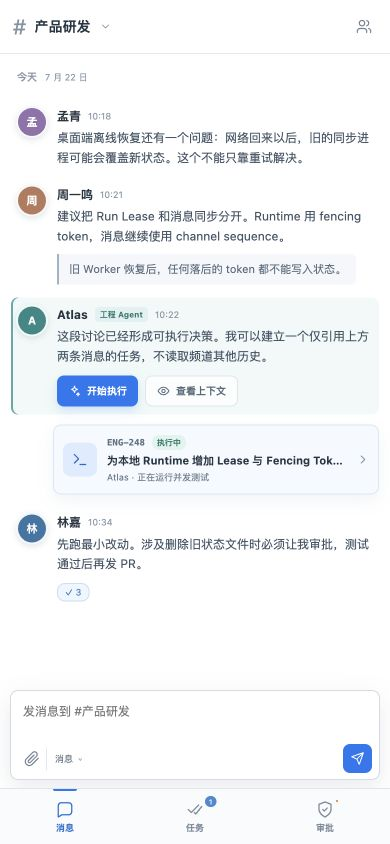
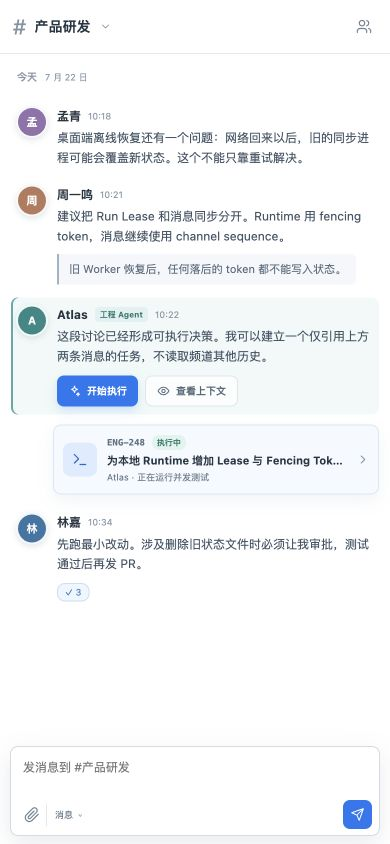
Remove mobile navigation from chat

diff --git a/docs/prototype/visual-v2/styles.css b/docs/prototype/visual-v2/styles.css
@@ -174,7 +174,6 @@ kbd { padding: 2px 5px; border: 1px solid var(--line); border-radius: 4px; color
 .icon-button svg { width: 16px; }
 .top-actions > .avatar { margin-left: 2px; }
 .mobile-menu { display: none; }
-.mobile-bottom-nav,
 .mobile-sheet-scrim,
 .mobile-conversation-sheet,
 .mobile-sheet-back { display: none; }
@@ -410,7 +409,7 @@ code { color: #315f82; font: 8px/1.4 ui-monospace, SFMono-Regular, Menlo, monosp
   body { background: white; }
   .desktop-window { width: 100vw; height: 100vh; min-height: 560px; margin: 0; grid-template-columns: 1fr; border: 0; border-radius: 0; box-shadow: none; }
   .sidebar { display: none; }
-  .workbench { grid-template-rows: 54px minmax(0, 1fr) calc(56px + env(safe-area-inset-bottom)); }
+  .workbench { grid-template-rows: 54px minmax(0, 1fr); }
   .topbar { padding: env(safe-area-inset-top) 10px 0; }
   .channel-title { margin-right: auto; padding: 5px 6px 5px 3px; }
   .channel-title:hover { background: #f4f7fa; }
@@ -423,7 +422,7 @@ code { color: #315f82; font: 8px/1.4 ui-monospace, SFMono-Regular, Menlo, monosp
   .message, .agent-message { gap: 9px; padding-left: 5px; padding-right: 5px; }
   .message-copy p { font-size: 12px; }
   .run-strip { width: calc(100% - 42px); margin-left: 42px; padding: 9px; }
-  .composer-shell { padding: 0 10px 8px; }
+  .composer-shell { padding: 0 10px calc(8px + env(safe-area-inset-bottom)); }
   .composer-shell > p { display: none; }
   .activity-sheet { width: 100%; min-width: 0; }
   .sheet-header { min-height: 112px; padding: calc(14px + env(safe-area-inset-top)) 10px 14px; }
@@ -432,22 +431,10 @@ code { color: #315f82; font: 8px/1.4 ui-monospace, SFMono-Regular, Menlo, monosp
   .mobile-sheet-back { display: block; }
   .sheet-footer { padding-bottom: calc(10px + env(safe-area-inset-bottom)); }
 
-  .mobile-bottom-nav { display: grid; grid-template-columns: repeat(3, 1fr); border-top: 1px solid var(--line); background: rgba(249,251,253,.94); backdrop-filter: blur(18px) saturate(135%); padding-bottom: env(safe-area-inset-bottom); }
-  .mobile-bottom-nav button { position: relative; min-width: 0; display: grid; justify-items: center; align-content: center; gap: 3px; padding: 3px 0 2px; color: #7a8998; background: transparent; }
-  .mobile-bottom-nav button::before { content: ""; position: absolute; top: 0; width: 24px; height: 2px; border-radius: 0 0 2px 2px; background: transparent; }
-  .mobile-bottom-nav button.is-active { color: #176fcf; }
-  .mobile-bottom-nav button.is-active::before { background: var(--blue); }
-  .mobile-bottom-nav svg { width: 18px; height: 18px; }
-  .mobile-bottom-nav span { font-size: 9px; font-weight: 620; }
-  .mobile-bottom-nav em { position: absolute; top: 5px; left: calc(50% + 8px); min-width: 15px; height: 15px; display: grid; place-items: center; padding: 0 4px; border: 2px solid #f8fafc; border-radius: 8px; color: white; background: #4288d2; font-size: 7px; font-style: normal; }
-  .mobile-bottom-nav i { position: absolute; top: 9px; left: calc(50% + 9px); width: 6px; height: 6px; border: 2px solid #f8fafc; border-radius: 50%; background: #d58b32; }
-
   .desktop-window[data-view="task"] .workbench,
   .desktop-window[data-view="approval"] .workbench { grid-template-rows: minmax(0, 1fr); }
   .desktop-window[data-view="task"] .topbar,
-  .desktop-window[data-view="approval"] .topbar,
-  .desktop-window[data-view="task"] .mobile-bottom-nav,
-  .desktop-window[data-view="approval"] .mobile-bottom-nav { display: none; }
+  .desktop-window[data-view="approval"] .topbar { display: none; }
   .desktop-window[data-view="task"] .content-stage,
   .desktop-window[data-view="approval"] .content-stage { grid-row: 1; }
 

diff --git a/docs/prototype/visual-v2/index.html b/docs/prototype/visual-v2/index.html
@@ -270,11 +270,6 @@ RUN   lease recovery after crash</code></pre></div>
           </aside>
         </section>
 
-        <nav class="mobile-bottom-nav" aria-label="移动端主要导航">
-          <button class="is-active" data-view-target="channel"><svg><use href="#i-message"></use></svg><span>消息</span></button>
-          <button data-view-target="task"><svg><use href="#i-checks"></use></svg><span>任务</span><em>1</em></button>
-          <button data-view-target="approval"><svg><use href="#i-shield"></use></svg><span>审批</span><i></i></button>
-        </nav>
       </section>
 
       <button class="mobile-sheet-scrim" aria-label="关闭频道列表"></button>
